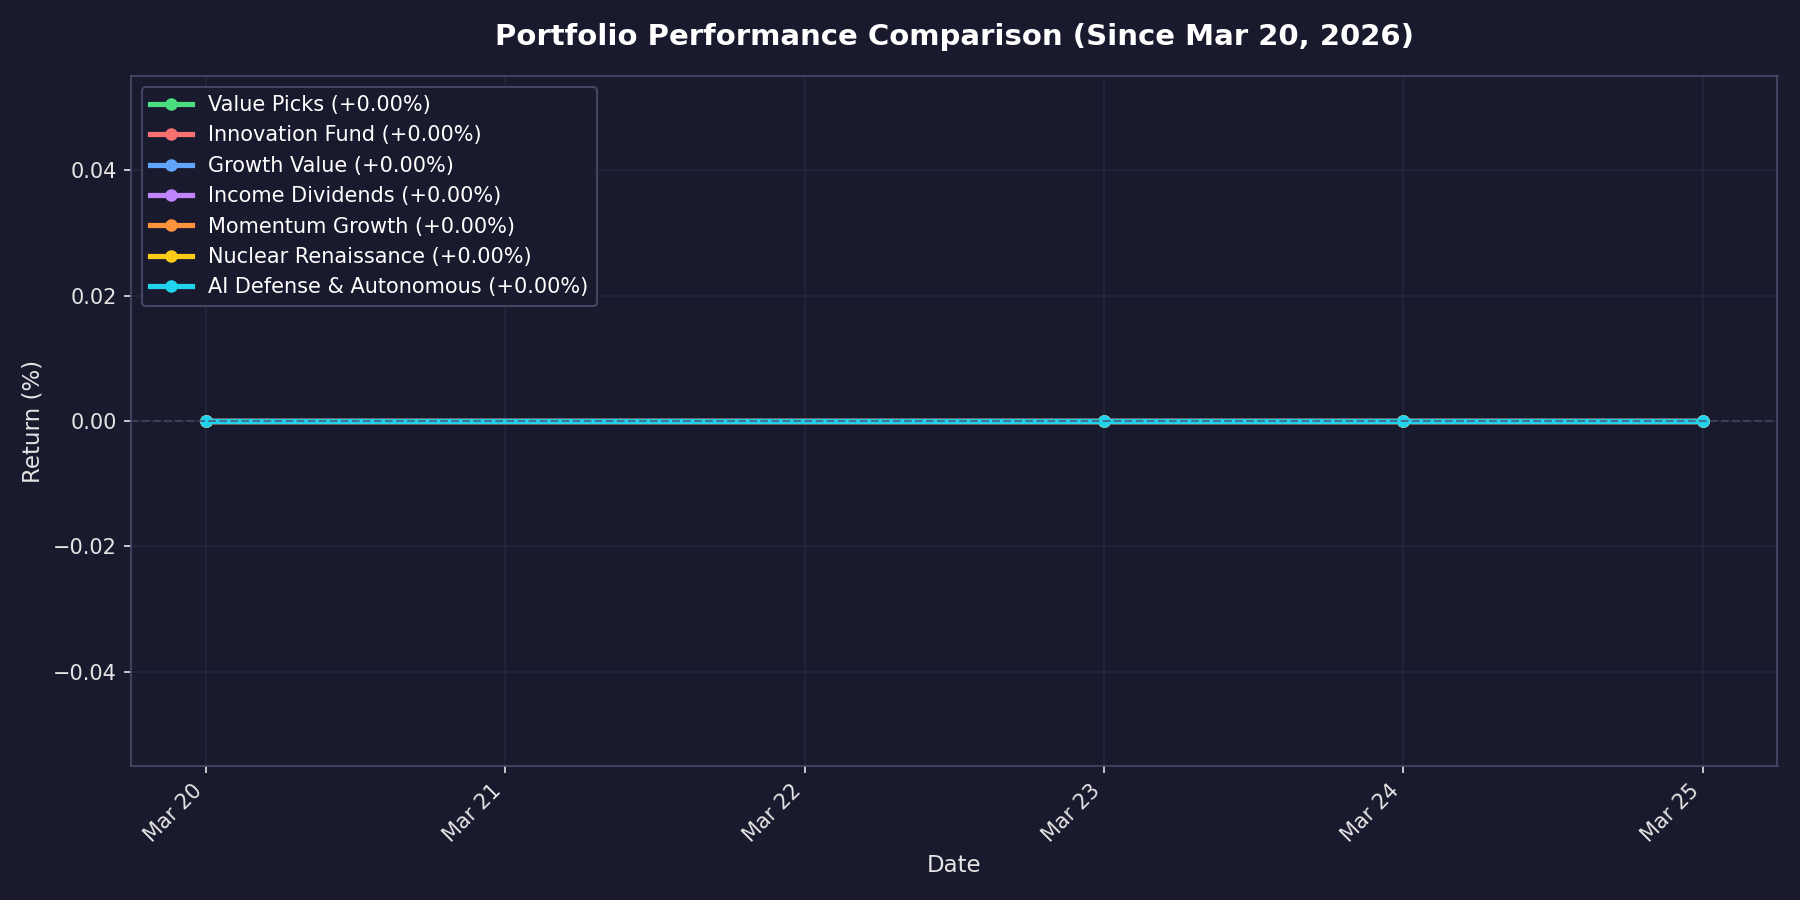
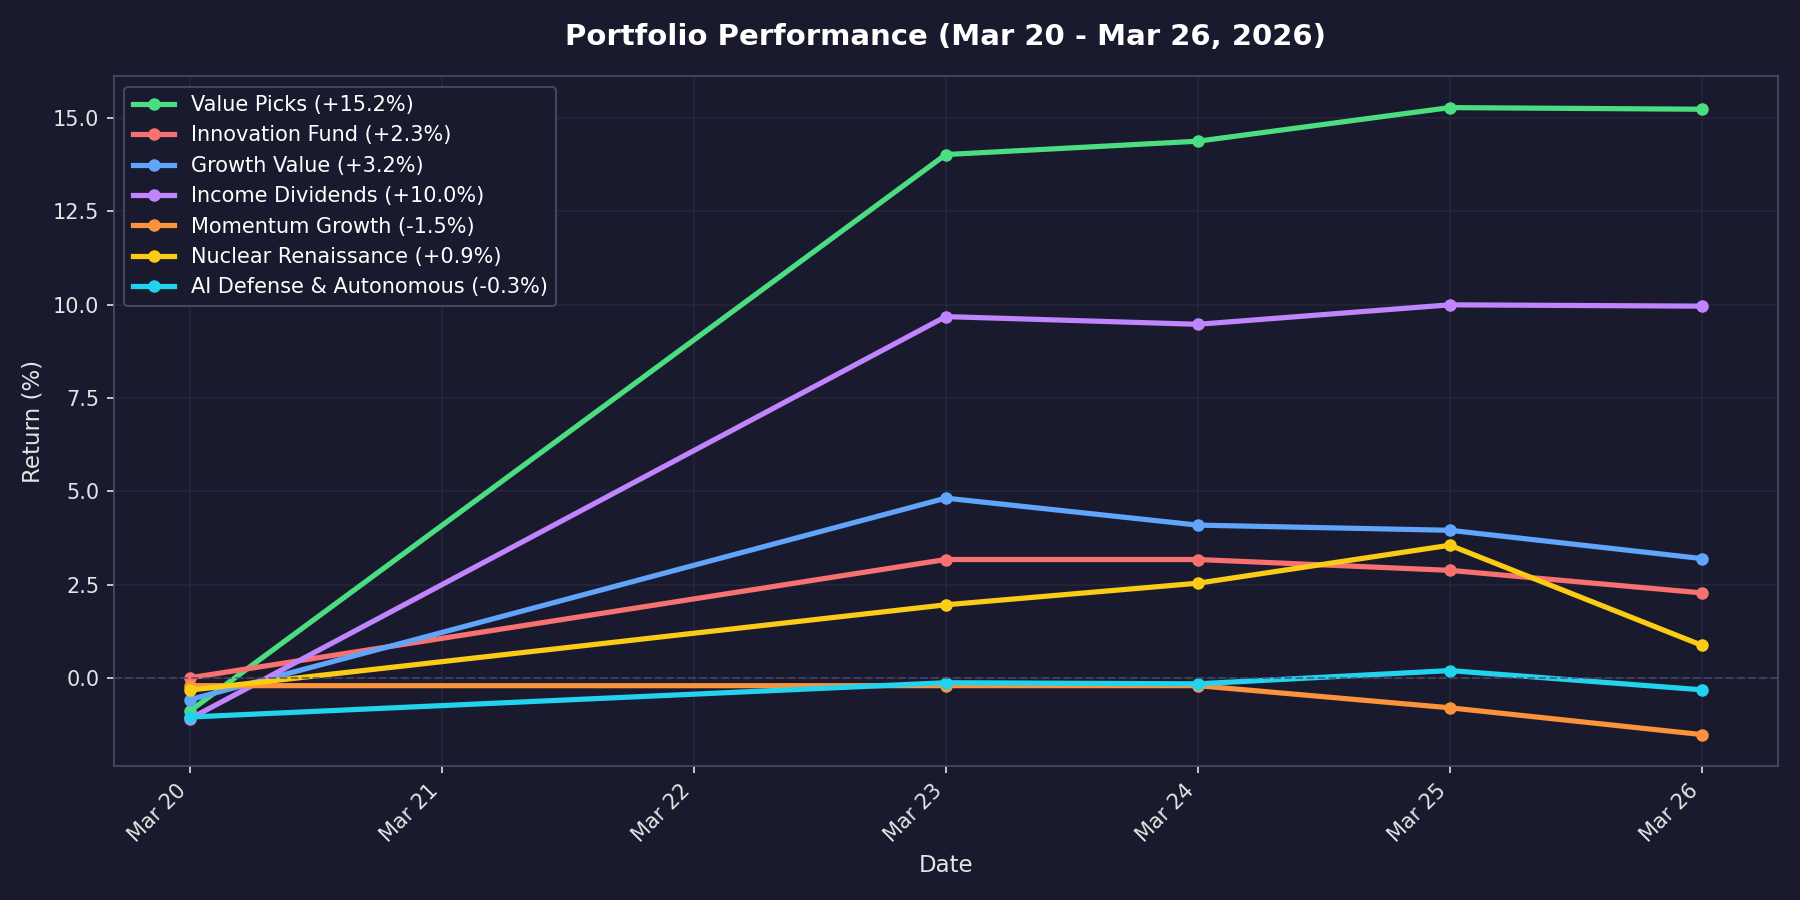
Fix performance chart: use daily_snapshots instead of transaction replay

diff --git a/src/generate_chart.py b/src/generate_chart.py
@@ -1,225 +1,113 @@
-"""Generate portfolio performance comparison chart."""
+"""Generate portfolio performance chart from daily_snapshots table."""
 
 import os
 import sqlite3
-from datetime import datetime, timedelta
+from datetime import datetime
 import matplotlib
-matplotlib.use('Agg')  # Non-interactive backend
+matplotlib.use('Agg')
 import matplotlib.pyplot as plt
 import matplotlib.dates as mdates
-import yfinance as yf
-import pandas as pd
 
-# Paths
-REPO_ROOT = os.path.dirname(os.path.dirname(os.path.abspath(__file__)))
+REPO_ROOT = os.path.expanduser("~/bigclaw-ai")
 DB_PATH = os.path.join(REPO_ROOT, 'src', 'portfolios.db')
 CHART_PATH = os.path.join(REPO_ROOT, 'docs', 'data', 'performance_chart.png')
 
 
-def get_portfolio_transactions():
-    """Get all transactions grouped by portfolio."""
+def main():
     conn = sqlite3.connect(DB_PATH)
-    conn.row_factory = sqlite3.Row
+    c = conn.cursor()
 
-    portfolios = {}
-    for row in conn.execute('SELECT id, name, starting_cash FROM portfolios WHERE is_active = 1'):
-        portfolios[row['id']] = {
-            'name': row['name'],
-            'starting_cash': row['starting_cash'],
-            'transactions': []
-        }
+    # Get portfolio names
+    c.execute("SELECT id, name, starting_cash FROM portfolios WHERE is_active = 1 ORDER BY id")
+    portfolios = {row[0]: {"name": row[1], "starting": row[2]} for row in c.fetchall()}
 
-    for row in conn.execute('SELECT * FROM transactions ORDER BY executed_at'):
-        pid = row['portfolio_id']
-        if pid in portfolios:
-            portfolios[pid]['transactions'].append({
-                'ticker': row['ticker'],
-                'action': row['action'],
-                'shares': row['shares'],
-                'price': row['price'],
-                'executed_at': row['executed_at']
-            })
-
+    # Get all snapshots
+    c.execute("""
+        SELECT portfolio_id, snapshot_date, total_value
+        FROM daily_snapshots
+        ORDER BY snapshot_date
+    """)
+    snapshots = c.fetchall()
     conn.close()
-    return portfolios
 
+    # Organize by portfolio
+    data = {pid: {"dates": [], "returns": []} for pid in portfolios}
+    for pid, date_str, total_value in snapshots:
+        if pid not in portfolios or not total_value:
+            continue
+        starting = portfolios[pid]["starting"]
+        ret_pct = ((total_value - starting) / starting) * 100
+        data[pid]["dates"].append(datetime.strptime(date_str[:10], "%Y-%m-%d"))
+        data[pid]["returns"].append(ret_pct)
 
-def get_historical_prices(tickers, start_date, end_date):
-    """Fetch historical prices for all tickers."""
-    if not tickers:
-        return pd.DataFrame()
-
-    try:
-        data = yf.download(list(tickers), start=start_date, end=end_date, progress=False)
-        if len(tickers) == 1:
-            if 'Close' in data.columns:
-                return data['Close'].to_frame(name=list(tickers)[0])
-        else:
-            if 'Close' in data.columns:
-                return data['Close']
-    except Exception as e:
-        print(f"Error fetching prices: {e}")
-    return pd.DataFrame()
-
-
-def calculate_daily_values(portfolios, start_date, end_date):
-    """Calculate daily portfolio values."""
-    # Collect all tickers
-    all_tickers = set()
-    for p in portfolios.values():
-        for t in p['transactions']:
-            all_tickers.add(t['ticker'])
-
-    print(f"Fetching prices for: {all_tickers}")
-
-    # Get historical prices
-    prices = get_historical_prices(all_tickers, start_date, end_date)
-    if prices.empty:
-        print("No price data retrieved")
-        return {}
-
-    print(f"Got prices for dates: {prices.index.tolist()}")
-
-    results = {}
-    for pid, portfolio in portfolios.items():
-        daily_values = []
-        holdings = {}  # ticker -> shares
-        cash = portfolio['starting_cash']
-
-        # Sort transactions by date
-        sorted_txns = sorted(portfolio['transactions'], key=lambda x: x['executed_at'])
-        txn_idx = 0
-
-        for date in prices.index:
-            date_str = date.strftime('%Y-%m-%d')
-
-            # Process transactions up to and including this date
-            while txn_idx < len(sorted_txns):
-                t = sorted_txns[txn_idx]
-                t_date = t['executed_at'][:10]
-                if t_date <= date_str:
-                    ticker = t['ticker']
-                    shares = t['shares']
-                    price = t['price']
-
-                    if t['action'] == 'BUY':
-                        holdings[ticker] = holdings.get(ticker, 0) + shares
-                        cash -= shares * price
-                    elif t['action'] == 'SELL':
-                        holdings[ticker] = holdings.get(ticker, 0) - shares
-                        cash += shares * price
-                    txn_idx += 1
-                else:
-                    break
-
-            # Calculate portfolio value
-            holdings_value = 0
-            for ticker, shares in holdings.items():
-                if ticker in prices.columns:
-                    price = prices.loc[date, ticker]
-                    if not pd.isna(price):
-                        holdings_value += shares * price
-
-            total_value = cash + holdings_value
-            if total_value > 0:
-                return_pct = ((total_value - portfolio['starting_cash']) / portfolio['starting_cash']) * 100
-                daily_values.append({
-                    'date': date,
-                    'value': total_value,
-                    'return_pct': return_pct
-                })
-
-        results[portfolio['name']] = daily_values
-        print(f"{portfolio['name']}: {len(daily_values)} data points")
-
-    return results
-
-
-def generate_chart(daily_values):
-    """Generate the comparison chart."""
-    if not daily_values:
-        print("No data to chart")
+    # Check we have data
+    has_data = any(len(d["dates"]) > 0 for d in data.values())
+    if not has_data:
+        print("No snapshot data to chart")
         return False
 
-    # Set up the figure with dark theme
+    for pid in portfolios:
+        print(f"  {portfolios[pid]['name']}: {len(data[pid]['dates'])} data points, "
+              f"latest return: {data[pid]['returns'][-1]:+.2f}%" if data[pid]['returns'] else "no data")
+
+    # Generate chart
     plt.style.use('dark_background')
     fig, ax = plt.subplots(figsize=(12, 6))
     fig.patch.set_facecolor('#1a1a2e')
     ax.set_facecolor('#1a1a2e')
 
-    # Color palette
     colors = {
-        'Value Picks': '#4ade80',              # Green
-        'Innovation Fund': '#f87171',          # Red/coral
-        'Growth Value': '#60a5fa',             # Blue
-        'Nuclear Renaissance': '#facc15',      # Yellow
-        'Income Dividends': '#c084fc',         # Purple
-        'Momentum Growth': '#fb923c',          # Orange
-        'AI Defense & Autonomous': '#22d3ee'   # Cyan
+        'Value Picks': '#4ade80',
+        'Innovation Fund': '#f87171',
+        'Growth Value': '#60a5fa',
+        'Nuclear Renaissance': '#facc15',
+        'Income Dividends': '#c084fc',
+        'Momentum Growth': '#fb923c',
+        'AI Defense & Autonomous': '#22d3ee',
     }
 
-    # Plot each portfolio
-    for name, values in daily_values.items():
-        if values:
-            dates = [v['date'] for v in values]
-            returns = [v['return_pct'] for v in values]
-            color = colors.get(name, '#ffffff')
-            ax.plot(dates, returns, label=f"{name} ({returns[-1]:+.2f}%)", linewidth=2.5, color=color, marker='o', markersize=5)
+    for pid, portfolio in portfolios.items():
+        d = data[pid]
+        if not d["dates"]:
+            continue
+        name = portfolio["name"]
+        color = colors.get(name, '#ffffff')
+        last_ret = d["returns"][-1]
+        ax.plot(d["dates"], d["returns"],
+                label=f"{name} ({last_ret:+.1f}%)",
+                linewidth=2.5, color=color, marker='o', markersize=5)
 
-    # Styling
     ax.set_xlabel('Date', fontsize=11, color='#e5e5e5')
     ax.set_ylabel('Return (%)', fontsize=11, color='#e5e5e5')
-    ax.set_title('Portfolio Performance Comparison (Since Mar 20, 2026)', fontsize=14, fontweight='bold', color='white', pad=15)
 
-    # Add zero line
+    # Dynamic date range in title
+    all_dates = []
+    for d in data.values():
+        all_dates.extend(d["dates"])
+    if all_dates:
+        start = min(all_dates).strftime('%b %d')
+        end = max(all_dates).strftime('%b %d, %Y')
+        ax.set_title(f'Portfolio Performance ({start} - {end})',
+                     fontsize=14, fontweight='bold', color='white', pad=15)
+
     ax.axhline(y=0, color='#4a4a6a', linestyle='--', linewidth=1, alpha=0.7)
-
-    # Format x-axis
     ax.xaxis.set_major_formatter(mdates.DateFormatter('%b %d'))
     ax.xaxis.set_major_locator(mdates.DayLocator(interval=1))
     plt.xticks(rotation=45, ha='right')
-
-    # Grid
     ax.grid(True, alpha=0.2, color='#4a4a6a')
+    ax.legend(loc='best', framealpha=0.9, facecolor='#1a1a2e', edgecolor='#4a4a6a')
 
-    # Legend
-    ax.legend(loc='upper left', framealpha=0.9, facecolor='#1a1a2e', edgecolor='#4a4a6a')
-
-    # Spine colors
     for spine in ax.spines.values():
         spine.set_color('#4a4a6a')
     ax.tick_params(colors='#e5e5e5')
 
-    # Save
     plt.tight_layout()
-    os.makedirs(os.path.dirname(CHART_PATH), exist_ok=True)
     plt.savefig(CHART_PATH, dpi=150, facecolor='#1a1a2e', edgecolor='none')
     plt.close()
 
-    print(f"Chart saved to {CHART_PATH}")
+    size = os.path.getsize(CHART_PATH)
+    print(f"Chart saved to {CHART_PATH} ({size/1024:.0f} KB)")
     return True
-
-
-def main():
-    # Date range: Mar 20, 2026 (paper trade reset) to today
-    start_date = '2026-03-20'
-    end_date = datetime.now().strftime('%Y-%m-%d')
-
-    print(f"Generating chart for {start_date} to {end_date}")
-
-    # Get portfolio data
-    portfolios = get_portfolio_transactions()
-    print(f"Found {len(portfolios)} portfolios")
-
-    for pid, p in portfolios.items():
-        print(f"  {p['name']}: {len(p['transactions'])} transactions")
-
-    # Calculate daily values
-    daily_values = calculate_daily_values(portfolios, start_date, end_date)
-
-    # Generate chart
-    success = generate_chart(daily_values)
-    return success
 
 
 if __name__ == '__main__':
